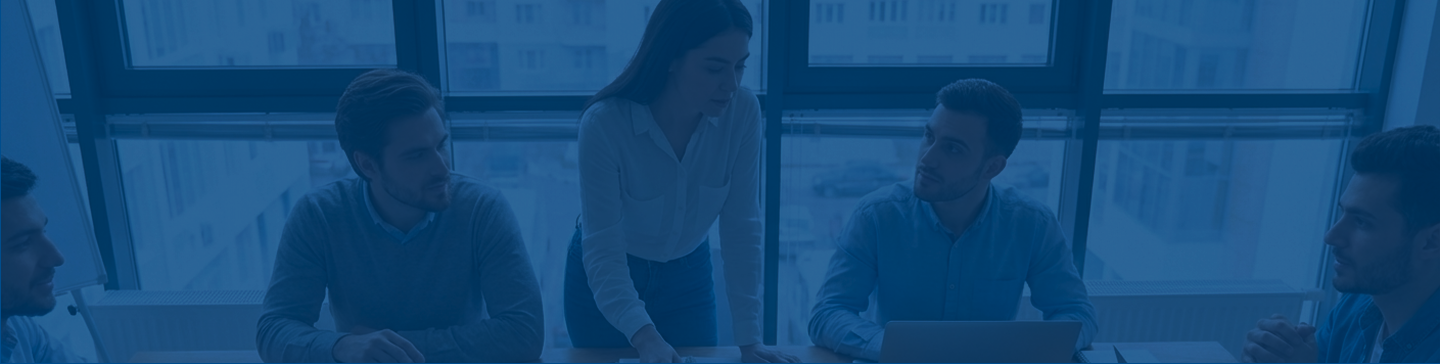
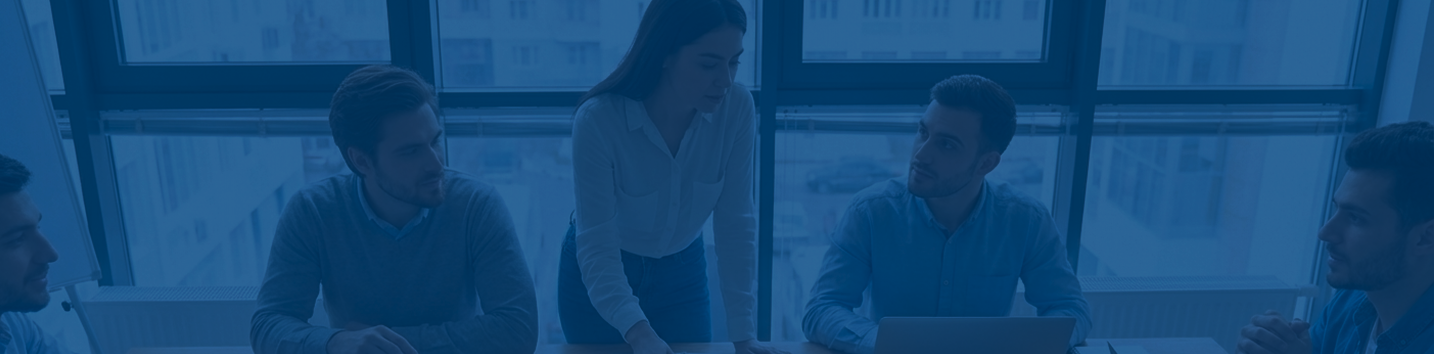
FAQs section desktop

diff --git a/solverouswebsite/src/pages/Home/home.js b/solverouswebsite/src/pages/Home/home.js
@@ -1,7 +1,9 @@
 import Navbar from "../../components/Navbar/navbar";
+import FAQItem from "../../components/FAQs/faqs";
 import HomeBg from "../../assets/home_bg.png";
 import OfferBg from "../../assets/offer_bg.png";
 import ProcessBg from "../../assets/process_bg.png";
+import FAQsBg from "../../assets/faqs_bg.png";
 import Button from '../../components/Buttons/button';
 import SecondSec from '../../assets/second_section_image.png';
 import Automation from '../../assets/first_reason.png';
@@ -35,6 +37,11 @@ function Home() {
     marginTop: "0px",
   };
 
+  const faqsBg = {
+    backgroundImage: `url(${FAQsBg})`,
+    marginTop: "0px",
+  };
+
   return (
     <>
       <Navbar />
@@ -52,40 +59,40 @@ function Home() {
         </section>
 
         {/* WHY CHOOSE SOLVEROUS SECTION */}
-        <section className=" body_margin my-12 md:my-16 flex flex-col md:flex-row space-x-0 md:space-x-6 space-y-12 md:space-y-0 items-center ">
-          <div className=" w-full md:w-[70%] h-full ">
-            <img src={SecondSec} alt="People in A Meeting" className='w-full md:w-[90%] ' />
+        <section className=" body_margin my-12 md:my-16 flex flex-col md:flex-row space-x-0 md:space-x-10 space-y-12 md:space-y-0 items-center ">
+          <div className=" w-full md:w-[90%] h-full ">
+            <img src={SecondSec} alt="People in A Meeting" className='w-full md:w-full ' />
           </div>
           <div className=" space-y-6 md:space-y-3 w-full text-center md:text-left ">
             <div>
               <h3 className="text-[2rem] md:text-3xl font-bold text-[#004D8C] ">Why Choose <span className="text-[#007EE6]">SOLVEROUS?</span></h3>
-              <p className=" p_white_bg w-[96%] md:w-[80%] m-auto md:m-0 ">We focus on real problems, modern technology, and collaborative development to deliver reliable, impactful digital solutions.</p>
+              <p className=" p_white_bg w-[96%] md:w-[90%] m-auto md:m-0 ">We focus on real problems, modern technology, and collaborative development to deliver reliable, impactful digital solutions.</p>
             </div>
             <div className=" space-y-8 md:space-y-4">
               {/* FIRST REASON */}
               <div className="reasons_flex reasons_space_between items-center ">
-                <div className=" reasons_icon_container w-[6.2rem] md:w-[6.5rem] h-24 md:h-16 "><img src={Automation} alt="Automation Icon" /></div>
+                <div className=" reasons_icon_container w-[6.2rem] md:w-[7.3rem] h-24 md:h-16 "><img src={Automation} alt="Automation Icon" /></div>
                 <div>
                   <h5 className=" h5_title text-[#004D8C] ">Cutting-Edge Technology</h5>
-                  <p className=" w-[93%] md:w-[75%] p_white_bg reasons_margin ">We leverage the latest advancements in AI, cloud computing, and cybersecurity to provide innovative tech solutions tailored to your needs.</p>
+                  <p className=" w-[93%] md:w-[95%] p_white_bg reasons_margin ">We leverage the latest advancements in AI, cloud computing, and cybersecurity to provide innovative tech solutions tailored to your needs.</p>
                 </div>
               </div>
 
               {/* SECOND REASON */}
               <div className="reasons_flex reasons_space_between items-center ">
-                <div className="reasons_icon_container w-[6.2rem] md:w-[8.5rem] h-24 md:h-16 "><img src={Target} alt="Target Icon" /></div>
+                <div className="reasons_icon_container w-[6.2rem] md:w-[9.8rem] h-24 md:h-16 "><img src={Target} alt="Target Icon" /></div>
                 <div>
                   <h5 className=" h5_title text-[#004D8C] ">Client-Centric Approach</h5>
-                  <p className=" w-[95%] md:w-[75%] p_white_bg reasons_margin ">Your goals and vision are at the center of everything we do. We collaborate closely with you throughout the process to ensure the final solution truly meets your needs and expectations.</p>
+                  <p className=" w-[95%] md:w-[90%] p_white_bg reasons_margin ">Your goals and vision are at the center of everything we do. We collaborate closely with you throughout the process to ensure the final solution truly meets your needs and expectations.</p>
                 </div>
               </div>
 
               {/* THIRD REASON */}
               <div className=" reasons_flex reasons_space_between items-center ">
-                <div className="reasons_icon_container w-[6.2rem] h-24 md:h-16 "><img src={Scaling} alt="Scaling Icon" /></div>
+                <div className="reasons_icon_container w-[6.2rem] md:w-[7.2rem] h-24 md:h-16 "><img src={Scaling} alt="Scaling Icon" /></div>
                 <div >
                   <h5 className=" h5_title text-[#004D8C] ">Scalable & Secure Solutions</h5>
-                  <p className=" p_white_bg reasons_margin w-[95%] md:w-[75%] ">Our solutions are designed to grow alongside your business, with scalability, security, and stability built in to support long-term success.</p>
+                  <p className=" p_white_bg reasons_margin w-[95%] md:w-[95%] ">Our solutions are designed to grow alongside your business, with scalability, security, and stability built in to support long-term success.</p>
                 </div>
               </div>
             </div>
@@ -184,7 +191,7 @@ function Home() {
                   <h5 className=" h5_title text-white ">Our History</h5>
                   <p className=" p_blue_bg ">Founded in January 2024. Solverous is a fresh, innovative start-up focused on providing high-quality digital solutions. Although we are in the early stages of our journey, we’re driven by a strong vision to revolutionize web development and tech services.</p>
                 </div>
-                
+
                 {/* OUR VISION */}
                 <div className=" about_container_style ">
                   <h5 className=" h5_title text-white ">Our Vision</h5>
@@ -204,8 +211,22 @@ function Home() {
         {/* 7TH SECTION */}
         <section style={peopleInMeeting} className=" bg-no-repeat bg-cover bg-center h-[70vh] md:h-[50vh] text-center content-center space-y-8 ">
           <div className=" flex flex-col justify-center items-center text-center space-y-4 md:space-y-4">
-            <h3 className="text-[2rem] md:text-3xl font-bold text-white flex flex-col ">Transforming Ideas Into <span className="text-[#007EE6]">Into Digital Solutions</span></h3>
+            <h3 className="text-[2rem] md:text-3xl font-bold text-white flex flex-col ">Transforming Ideas Into <span className="text-[#0889f1]">Digital Solutions</span></h3>
             <p className=" p_blue_bg w-[75%] md:w-[32%] ">We follow a thoughtful, collaborative process to ensure every solution we deliver is aligned with your vision, goals, and growth.</p>
+          </div>
+        </section>
+
+        {/* FAQs Section */}
+        <section style={faqsBg} className=" flex flex-col md:flex-row justify-center items-center bg-no-repeat bg-cover bg-center h-[70vh] md:h-[70vh] ">
+          <div className=" body_margin flex flex-row space-x-20 ">
+            <div className="w-fit space-y-6 ">
+              <div className=" w-full md:w-full space-y-2 ">
+                <h3 className="text-[2rem] md:text-3xl font-bold text-white ">Frequently <span className="text-[#0889f1]">Asked Questions</span></h3>
+                <p className=" p_blue_bg w-full ">We follow a thoughtful, collaborative process to ensure every solution we deliver is aligned with your vision, goals, and growth.</p>
+              </div>
+              <Button title="Contact Us" type="none" buttonCustomStyle=" text-white bg-[#007EE6] hover:bg-[#056CC2] py-3 px-[5%] md:py-2 md:px-8 border-[#007EE6] hover:bg-white hover:border-white hover:text-[#007EE6] [box-shadow:0_4px_8px_rgba(1,0,0,0.2)] " />
+            </div>
+            <FAQItem/>
           </div>
         </section>
       </main>

diff --git a/solverouswebsite/src/components/FAQs/faqs.js b/solverouswebsite/src/components/FAQs/faqs.js
@@ -1,0 +1,42 @@
+import { useState } from "react";
+import PlusIcon from "../../assets/plus.png";
+import MinusIcon from "../../assets/minus.png";
+
+function FAQItem() {
+    const [isOpen, setIsOpen] = useState(false);
+
+    return (
+        <div
+            className={`h-fit p-8 rounded-2xl w-full max-w-5xl transition-all duration-300
+            ${isOpen ? "bg-white" : "bg-transparent"}`}
+        >
+            <div className="flex justify-between items-center">
+                <h5 className={`h5_title ${isOpen ? "text-[#004D8C]" : "text-white" }`}>
+                    What services does Solverous provide?
+                </h5>
+
+                <button onClick={() => setIsOpen(!isOpen)}>
+                    <img
+                        src={isOpen ? MinusIcon : PlusIcon}
+                        alt={isOpen ? "Minimize" : "Expand"}
+                        className="w-6 h-6 md:w-5 md:h-5"
+                    />
+                </button>
+            </div>
+
+            <div
+                className={`overflow-hidden transition-all duration-300 ${isOpen ? "max-h-40 opacity-100 mt-4" : "max-h-0 opacity-0"
+                    }`}
+            >
+                <p className="p_white_bg">
+                    Solverous offers custom software development, web and application
+                    development, AI-powered and smart systems, and end-to-end project
+                    solutions. We design, build, and deploy secure, scalable technology
+                    tailored to your goals and needs.
+                </p>
+            </div>
+        </div>
+    );
+}
+
+export default FAQItem;
